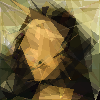
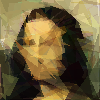
Improves image evolution example
Updates pyo3 dependency and enhances the image evolution example by increasing the number of genes and adding evaluator options.

This change also includes minor code cleanup and removes unnecessary files.

diff --git a/examples/image-evo/src/problem.rs b/examples/image-evo/src/problem.rs
@@ -5,6 +5,7 @@ use crate::{
 use image::{DynamicImage, ImageBuffer, Rgba};
 use radiate::*;
 
+#[derive(Debug, Clone)]
 pub struct ImageProblem {
     target_pixels: Vec<Rgba<u8>>,
     num_genes: usize,
@@ -16,8 +17,7 @@ pub struct ImageProblem {
 impl ImageProblem {
     pub fn new(num_genes: usize, polygon_size: usize, image_path: DynamicImage) -> Self {
         let target_image = image_path.to_rgba8();
-        let image_height = target_image.height();
-        let image_width = target_image.width();
+        let (image_width, image_height) = target_image.dimensions();
 
         Self {
             target_pixels: target_image.pixels().cloned().collect(),
@@ -46,7 +46,6 @@ impl Problem<ImageChromosome, ImageBuffer<Rgba<u8>, Vec<u8>>> for ImageProblem {
         let decoded = self.decode(individual);
 
         let mut diff = 0.0;
-
         for (p1, p2) in decoded.pixels().zip(self.target_pixels.iter()) {
             let dr = p2[0] as f32 - p1[0] as f32;
             let dg = p2[1] as f32 - p1[1] as f32;

diff --git a/crates/radiate-engines/src/lib.rs b/crates/radiate-engines/src/lib.rs
@@ -12,7 +12,7 @@ pub use engine::GeneticEngine;
 pub use epoch::{Generation, MultiObjectiveGeneration};
 pub use events::{EngineEvent, Event, EventBus, EventHandler, EventLogger, MetricsAggregator};
 pub use iter::{EngineIterator, EngineIteratorExt};
-pub use steps::EvaluateStep;
+pub use steps::{EvaluateStep, SequentialEvaluator, WorkerPoolEvaluator};
 
 pub use radiate_alters::*;
 pub use radiate_core::*;

diff --git a/examples/image-evo/src/main.rs b/examples/image-evo/src/main.rs
@@ -1,12 +1,12 @@
 use crate::{mutator::ImageMutator, problem::ImageProblem};
-use radiate::{steps::WorkerPoolEvaluator, *};
+use radiate::*;
 
 mod chromosome;
 mod mutator;
 mod polygon;
 mod problem;
 
-const NUM_GENES: usize = 150;
+const NUM_GENES: usize = 175;
 const POLYGON_SIZE: usize = 5;
 
 fn main() {
